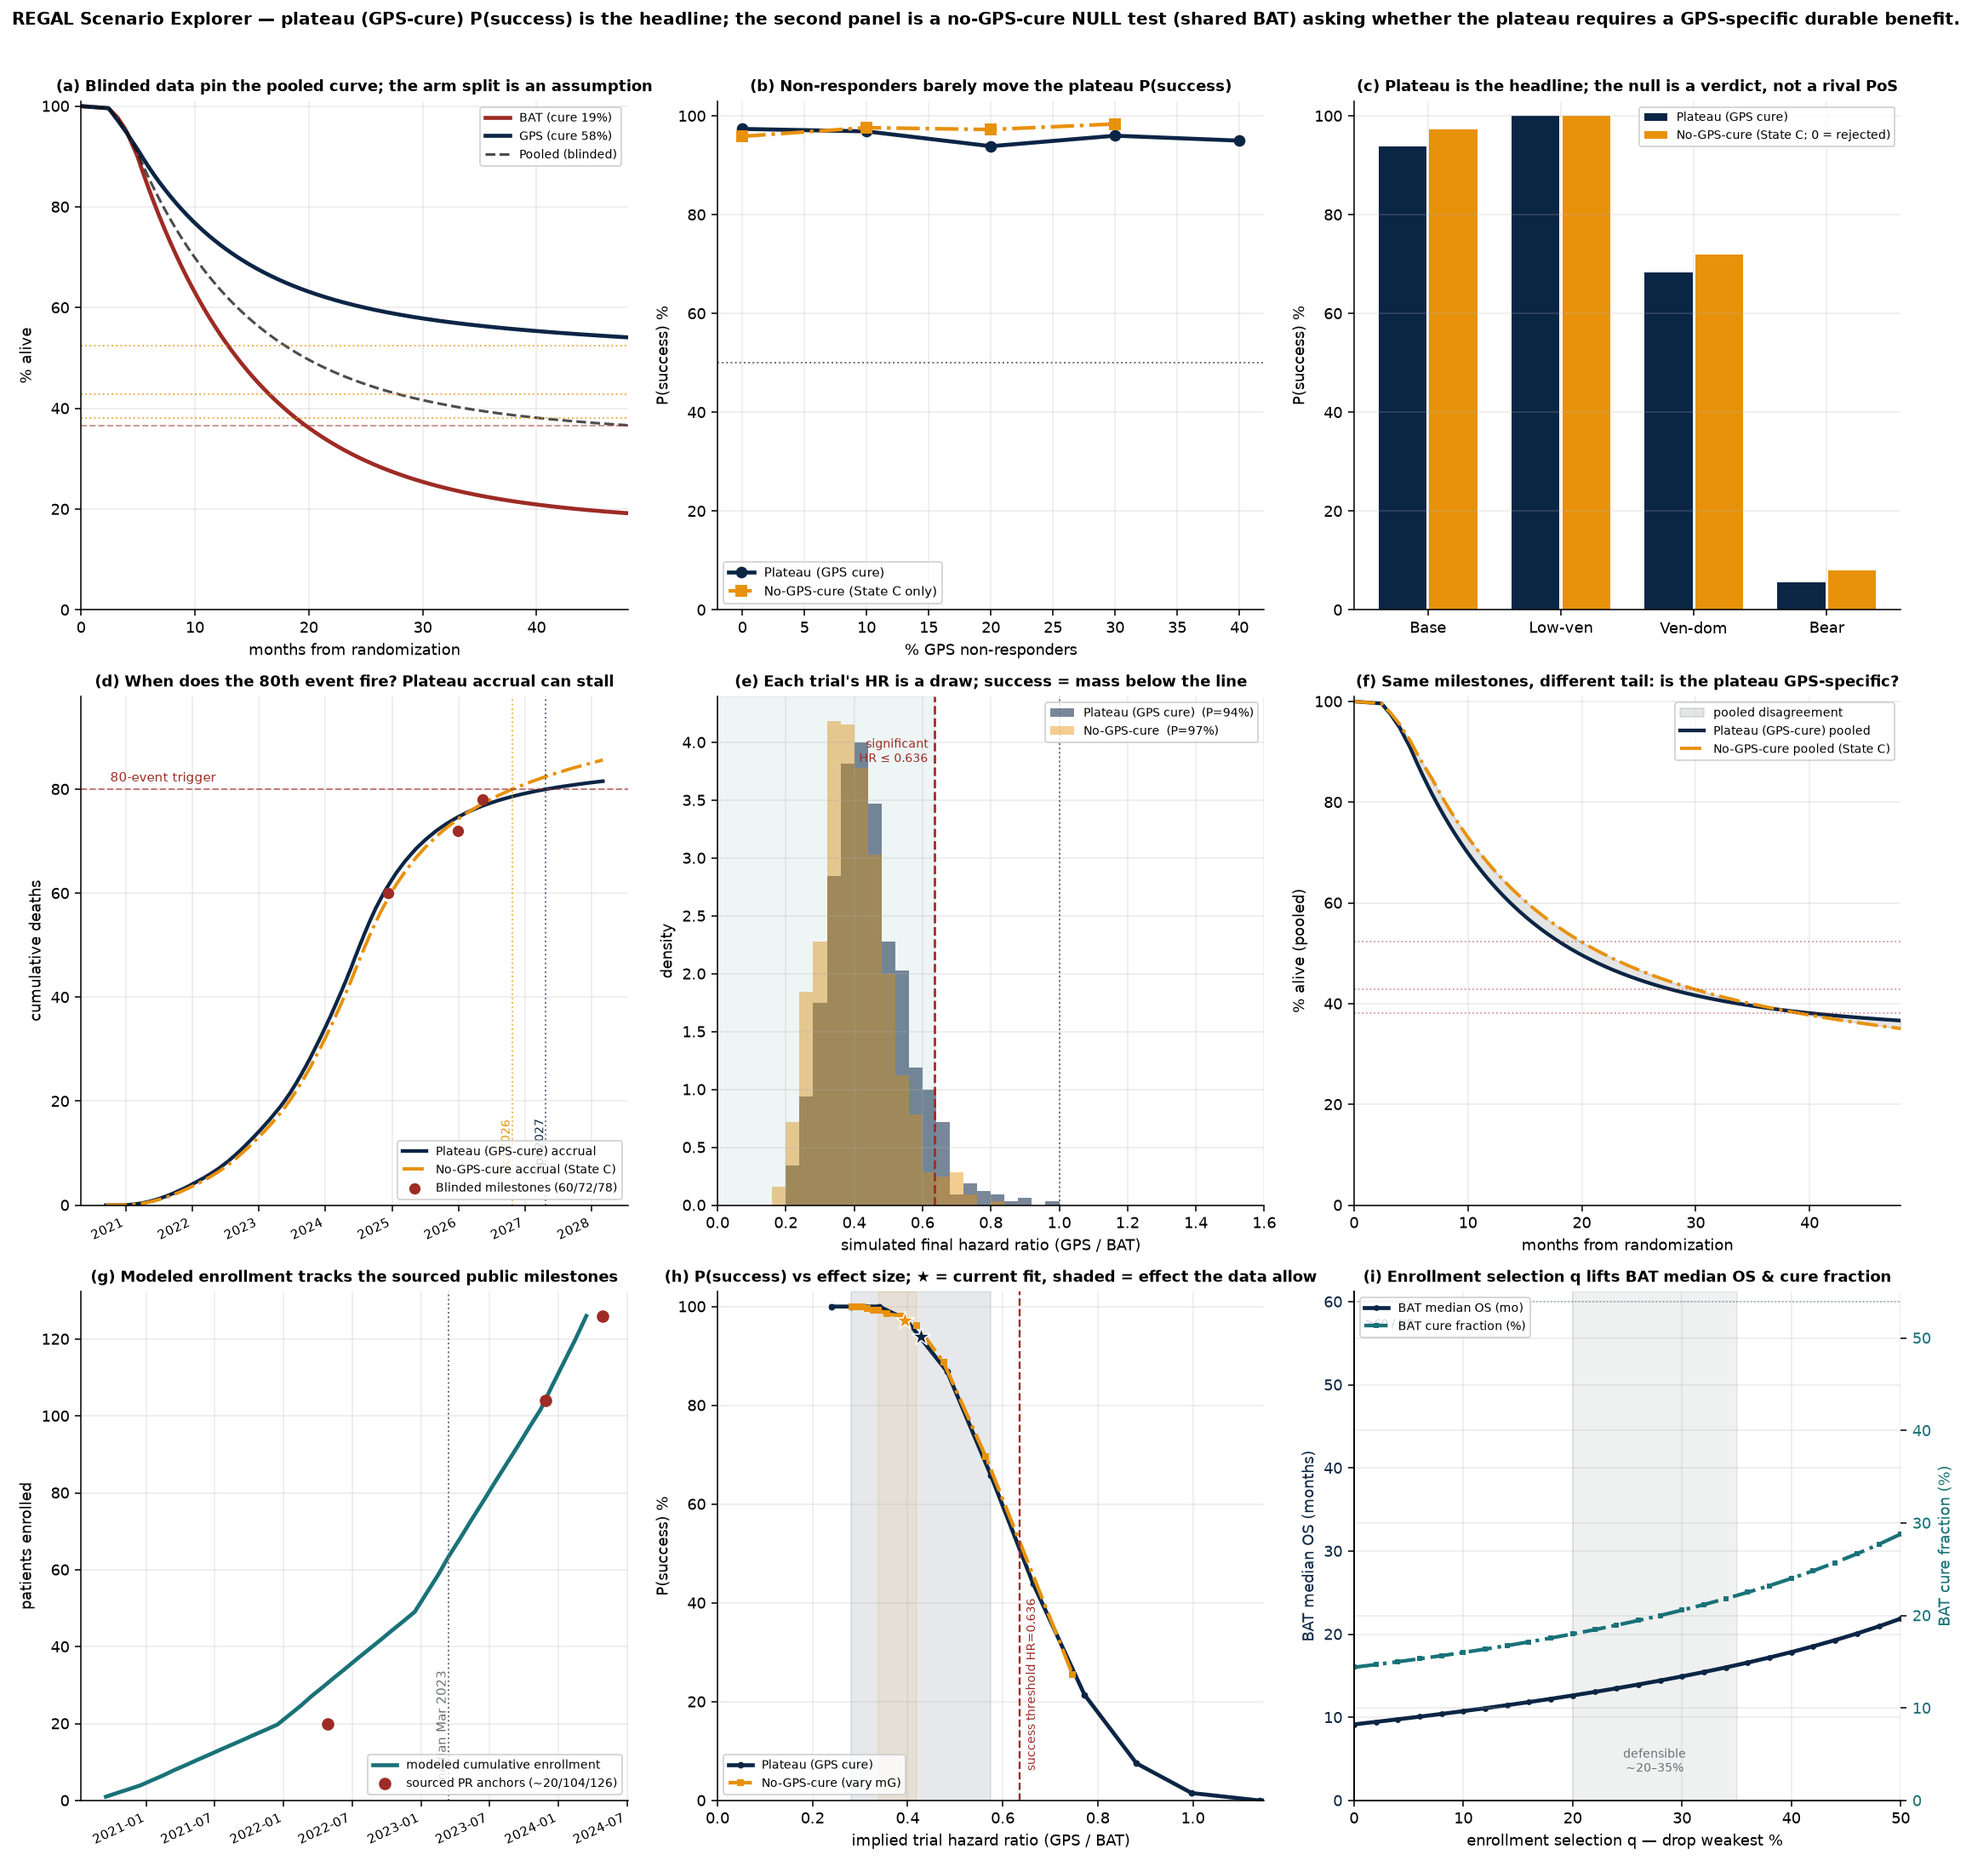
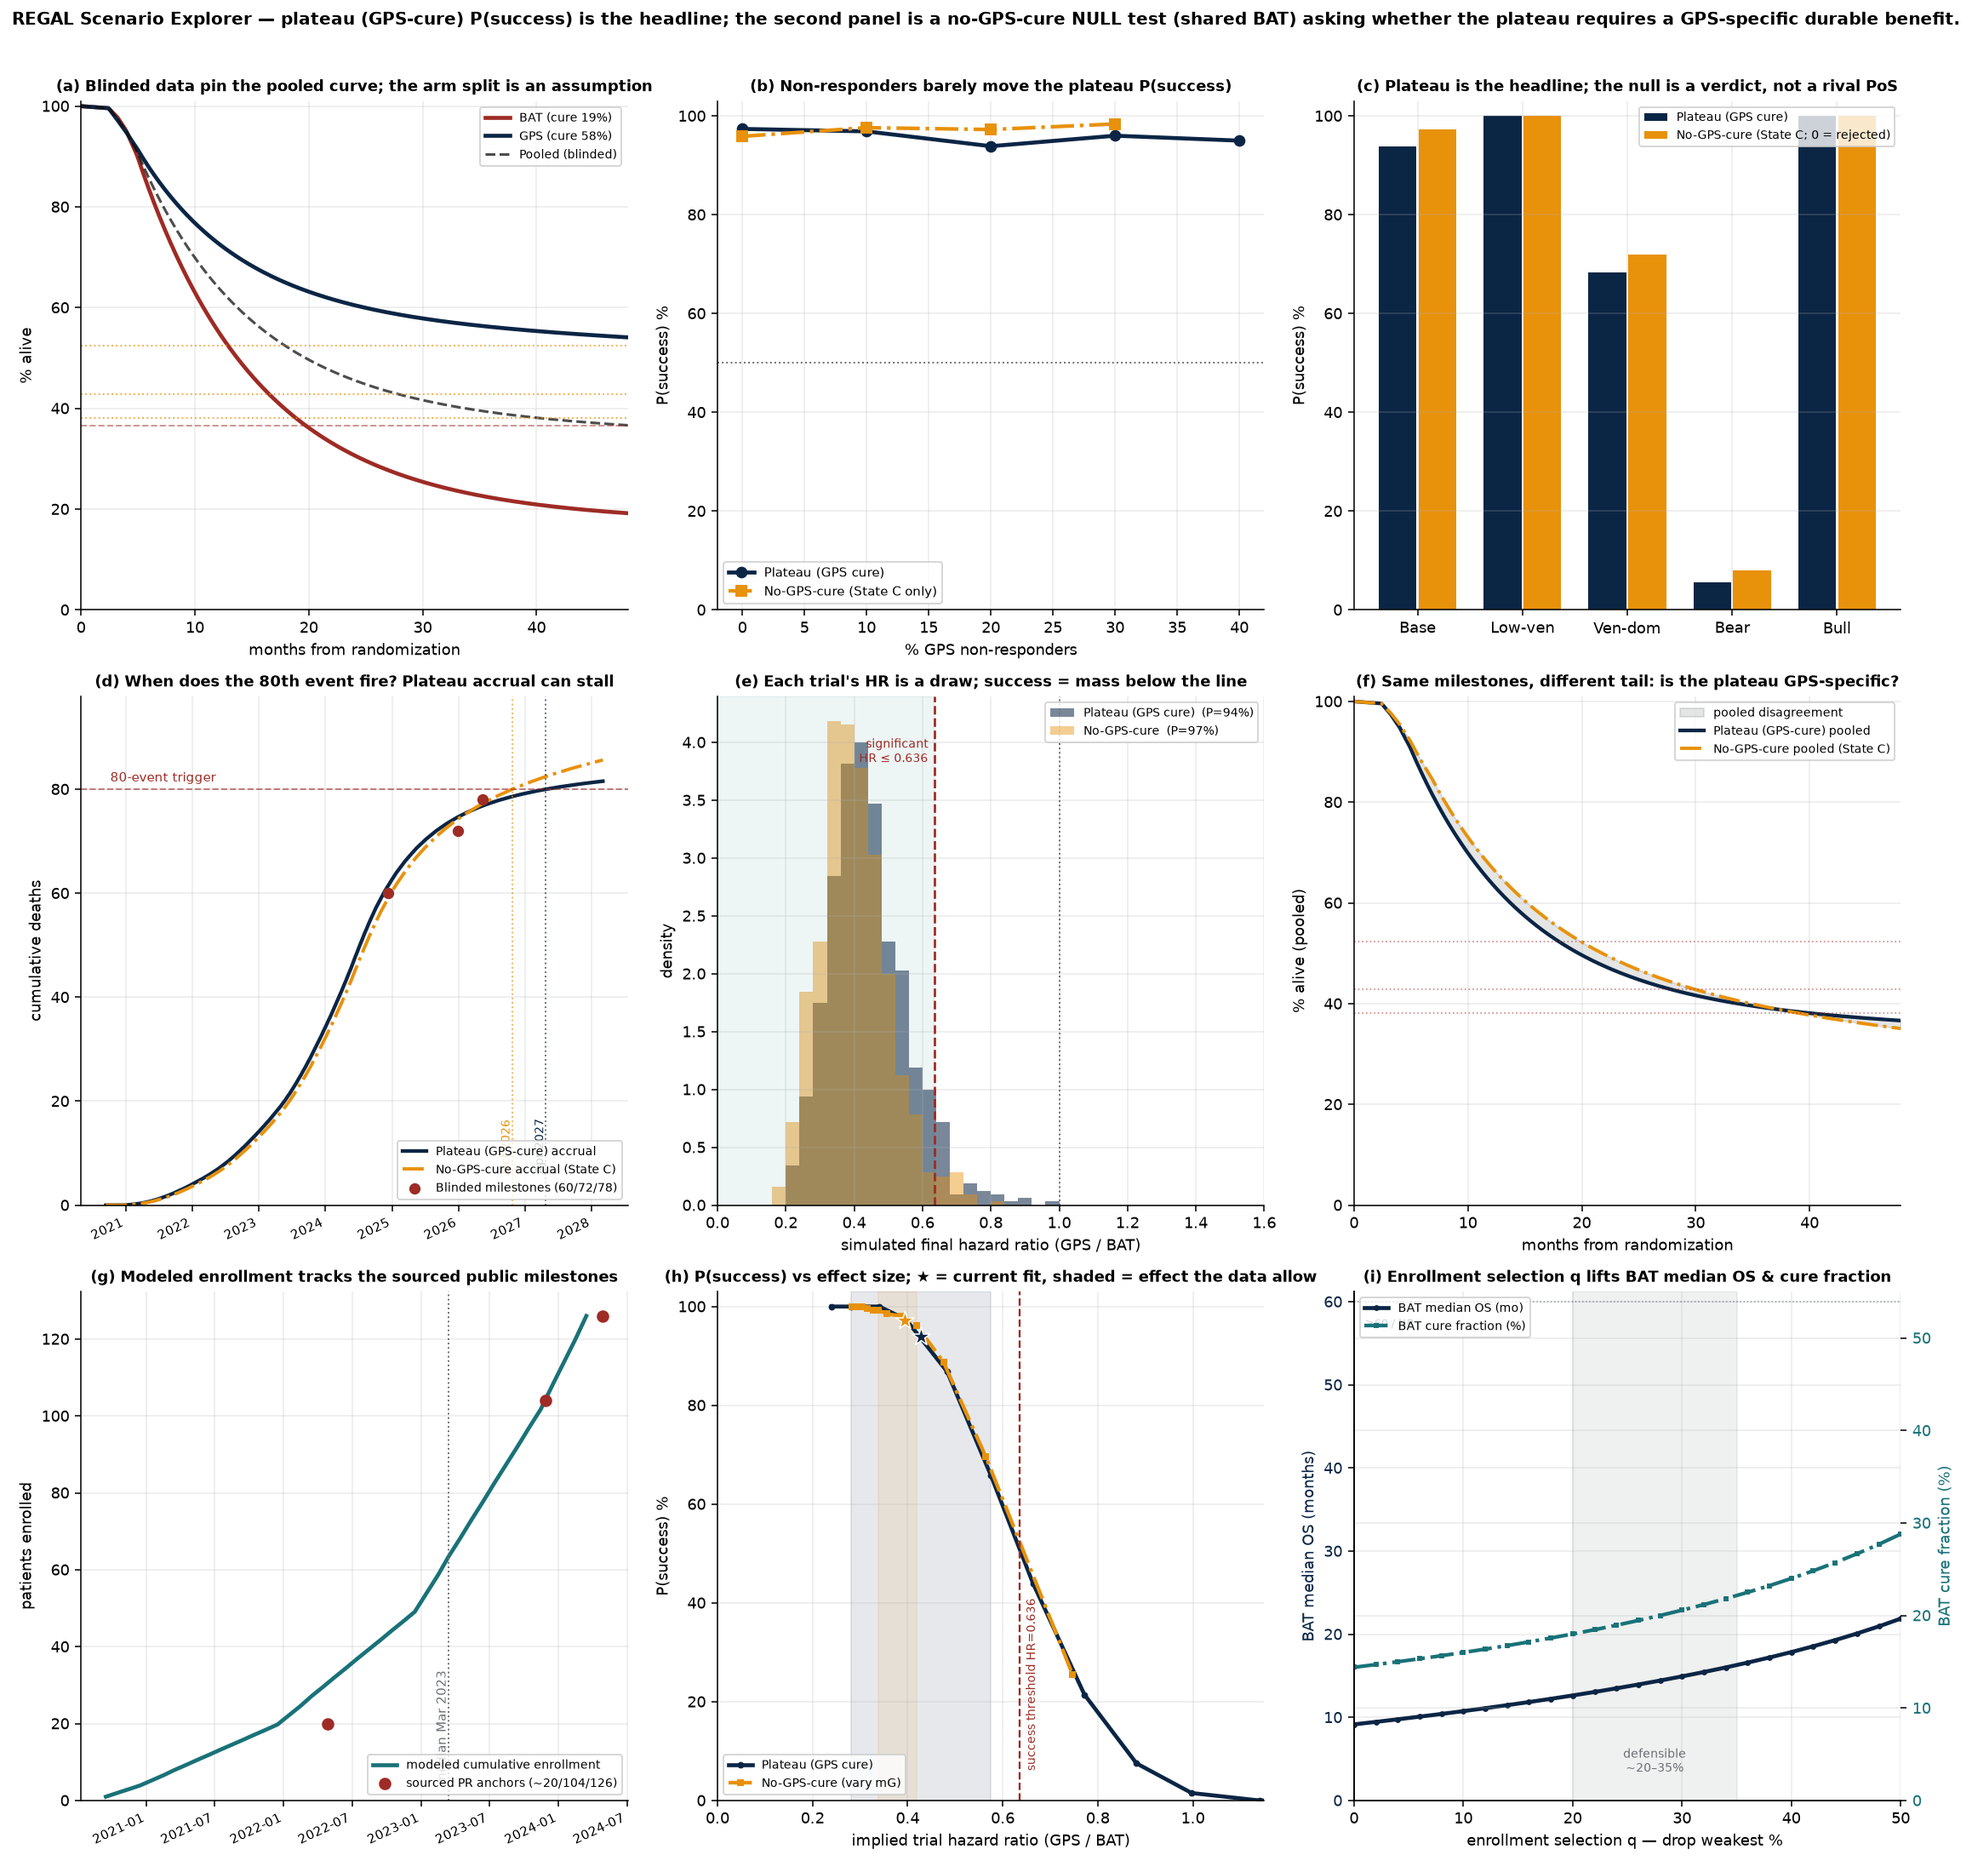
Add the bull-corner preset to the Python engine
The HTML explorer already had a Bull corner preset (the symmetric,
optimistic mirror of the Bear corner) but the Python mirror did not.
Add it to PRESETS with the same weights/venetoclax-cure as the JS
(w=[20,10,35,10,25], vc=12), and include it in the CLI summary table
and the panel-(c) preset sweep so it is actually exercised and plotted.

The bull corner lands at plateau P(success) 100% (mirror of the bear
corner's ~6%). Docs already described all five presets; update the two
"four BAT presets" references to five and regenerate the 9-panel figure.

Claude-Session: https://claude.ai/code/session_012CW8fpYREmxMcus9ZtF3iT

Changed region(s): [[0.7147, 0.0622, 0.9633, 0.3422]]

diff --git a/regal_explorer.py b/regal_explorer.py
@@ -79,6 +79,7 @@ PRESETS = {
     "low":  {"w": [25, 15, 35, 10, 15], "vc": 22},
     "dom":  {"w": [5, 2, 23, 60, 10],  "vc": 22},
     "bear": {"w": [5, 2, 13, 70, 10],  "vc": 36},
+    "bull": {"w": [20, 10, 35, 10, 25], "vc": 12},   # symmetric mirror of bear (optimistic corner)
 }
 
 def default_cfg(**over):
@@ -493,8 +494,8 @@ def figure(path, nsim=1500):
     b.set_title("(b) Non-responders barely move the plateau P(success)",
                 fontweight="bold", fontsize=9); b.legend(fontsize=7.6)
 
-    # (c) plateau PoS + no-GPS-cure PoS (State C only) across the four BAT-composition presets
-    names = ["base", "low", "dom", "bear"]; labels = ["Base", "Low-ven", "Ven-dom", "Bear"]
+    # (c) plateau PoS + no-GPS-cure PoS (State C only) across the five BAT-composition presets
+    names = ["base", "low", "dom", "bear", "bull"]; labels = ["Base", "Low-ven", "Ven-dom", "Bear", "Bull"]
     gc = []; gl = []
     for nm in names:
         c = apply_preset(default_cfg(), nm)
@@ -698,7 +699,7 @@ if __name__ == "__main__":
     print()
 
     print(f"{'preset':>8} | {'f_nr':>5} | {'P(plateau)':>10} | {'null verdict':>26} | {'BATmed':>7} {'GPSmed':>7}")
-    for nm in ["base", "low", "dom", "bear"]:
+    for nm in ["base", "low", "dom", "bear", "bull"]:
         c = apply_preset(default_cfg(), nm)
         mcc, mll = build_plateau(c), build_no_gps_cure(c)
         rcc = mc(mcc, NSIM)

diff --git a/REGAL_MODEL_DOCUMENTATION.md b/REGAL_MODEL_DOCUMENTATION.md
@@ -60,7 +60,7 @@ The current tool is a single unified engine, delivered in two equivalent forms:
 | File | Role | Key outputs |
 |------|------|-------------|
 | `regal_explorer.html` | Self-contained interactive explorer (no build, no dependencies): sliders for BAT composition, venetoclax cure, enrollment selection (eligibility filter), non-responder fraction, enrollment median timing, natural (non-disease) death rate, loss-to-follow-up, the no-GPS-cure test's GPS tail shape s<sub>G</sub> (fitted by default, with a manual override), and per-component shape k, plus an interim futility-HR consistency check and a weighted/unweighted fit toggle; the plateau P(success), the no-GPS-cure three-state verdict, and a "Trial dynamics" panel of live charts (survival curves, event-accrual timeline, simulated-HR distribution, GPS-cure-vs-no-GPS-cure divergence band, enrollment validation, a P(success)-vs-effect power curve, and a BAT-median-&-cure-vs-selection sweep). | plateau P(success), median HR, implied interim HR, per-arm alive-at-80th, GPS-median Poisson CI, fit-check, the null verdict (A/B/C), per-arm curves |
-| `regal_explorer.py` | The same engine in Python (`bat_arm`, `build_plateau`, `build_no_gps_cure`, `mc`), with a CLI summary across the four BAT presets and a 9-panel figure (`regal_explorer_panel.png`). | plateau P(success) + null-verdict table, preset/non-responder sweeps, 9-panel figure |
+| `regal_explorer.py` | The same engine in Python (`bat_arm`, `build_plateau`, `build_no_gps_cure`, `mc`), with a CLI summary across the five BAT presets and a 9-panel figure (`regal_explorer_panel.png`). | plateau P(success) + null-verdict table, preset/non-responder sweeps, 9-panel figure |
 
 Both share one enrollment reconstruction, one set of survival primitives, the same significance
 threshold (Section 2.1), and — critically — **one shared BAT arm** (`bat_arm`): the plateau and null

diff --git a/README.md b/README.md
@@ -22,7 +22,7 @@ slider are the intended stress controls.
 | File | What it is |
 |------|------------|
 | `regal_explorer.html` | Self-contained interactive explorer — open in any browser, no build or dependencies. Sliders for BAT composition, enrollment selection (eligibility filter, a left-truncation), non-responder fraction, natural (non-disease) death rate, the no-GPS-cure test's GPS tail shape sG (fitted by default, with a manual override), etc.; the plateau P(success), the no-GPS-cure verdict, plus live charts (survival curves, event-accrual timeline, simulated-HR distribution, GPS-cure-vs-no-GPS-cure divergence, enrollment validation, a P(success)-vs-effect power curve, and a BAT-median-&-cure-vs-selection sweep). |
-| `regal_explorer.py` | The same engine in Python. Prints a summary across the four BAT presets and writes the 9-panel `regal_explorer_panel.png`. Requires `numpy` + `matplotlib`. |
+| `regal_explorer.py` | The same engine in Python. Prints a summary across the five BAT presets and writes the 9-panel `regal_explorer_panel.png`. Requires `numpy` + `matplotlib`. |
 | `REGAL_MODEL_DOCUMENTATION.md` | Full methodology, parameter sourcing, and limitations. |
 
 ```bash
